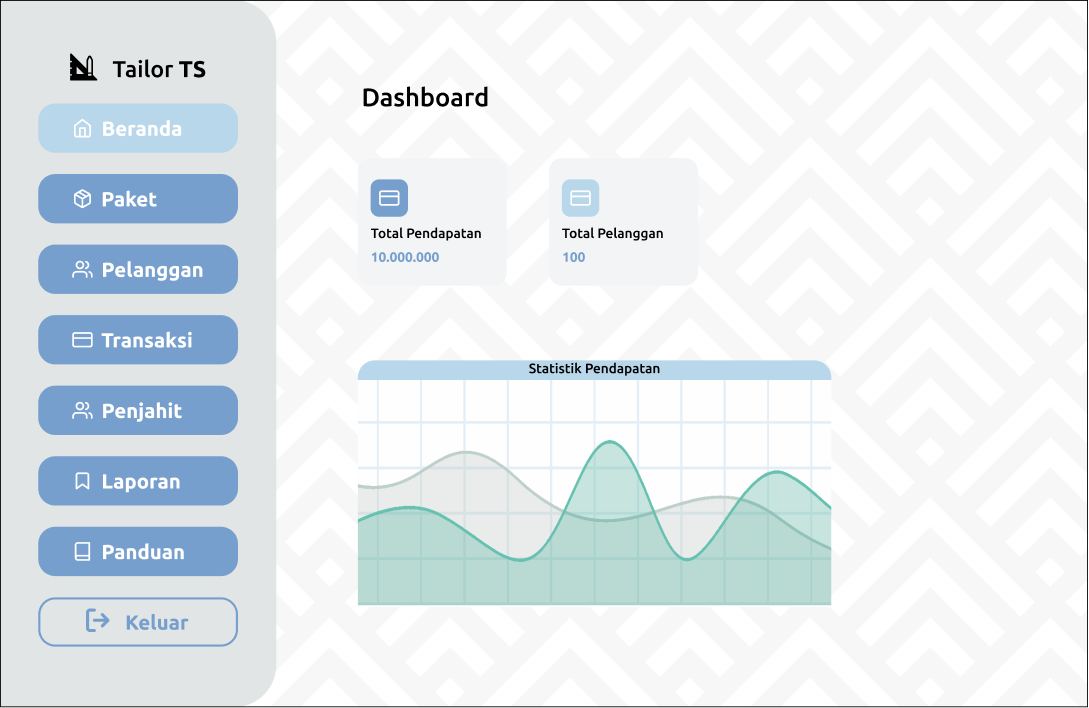
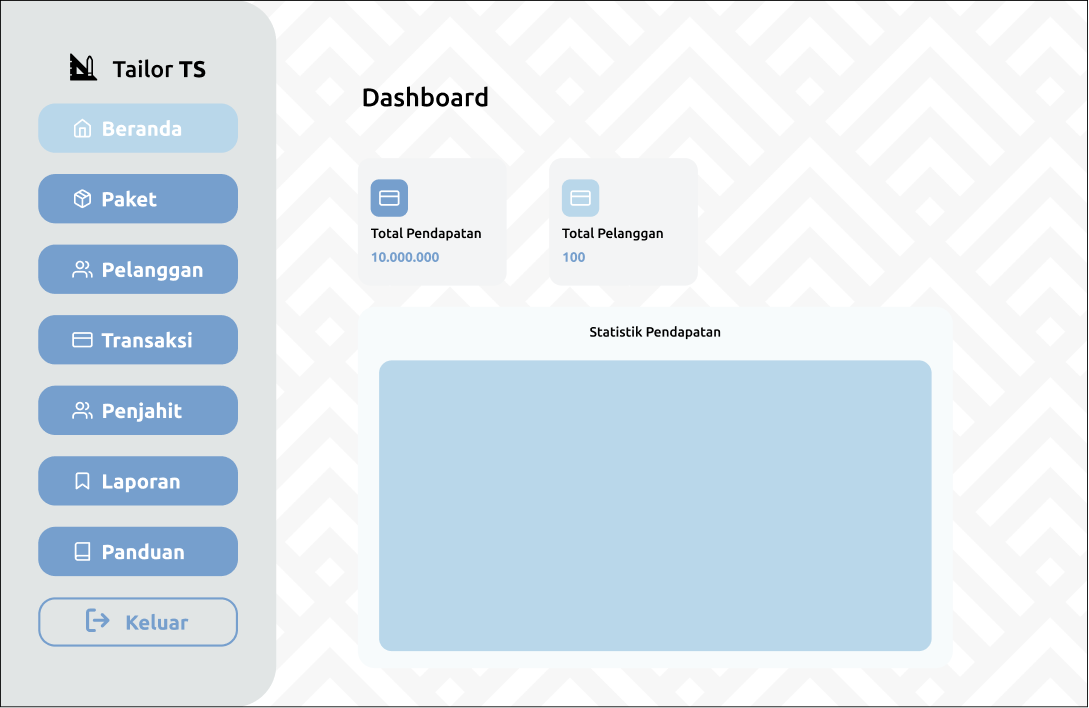
wip: add chart to dashboard

Changed region(s): [[0.3122, 0.4661, 0.8742, 0.9322]]

diff --git a/src/main/java/polije/ppl/tailor/view/admin/DashboardAdminView.java b/src/main/java/polije/ppl/tailor/view/admin/DashboardAdminView.java
@@ -4,7 +4,9 @@
  */
 package polije.ppl.tailor.view.admin;
 
+import java.awt.Color;
 import polije.ppl.tailor.view.util.SidebarAdminView;
+import raven.chart.ModelChart;
 
 /**
  *
@@ -17,6 +19,7 @@ public class DashboardAdminView extends javax.swing.JFrame {
      */
     public DashboardAdminView() {
         initComponents();
+        initChart();
 
         sidebar.add(new SidebarAdminView(this));
         sidebar.setBackground(new java.awt.Color(255, 255, 255, 0));
@@ -31,6 +34,7 @@ public class DashboardAdminView extends javax.swing.JFrame {
     private void initComponents() {
 
         sidebar = new javax.swing.JPanel();
+        chart = new raven.chart.CurveLineChart();
         jLabel1 = new javax.swing.JLabel();
 
         setDefaultCloseOperation(javax.swing.WindowConstants.EXIT_ON_CLOSE);
@@ -42,6 +46,11 @@ public class DashboardAdminView extends javax.swing.JFrame {
         getContentPane().add(sidebar);
         sidebar.setBounds(0, 0, 277, 708);
 
+        chart.setBorder(javax.swing.BorderFactory.createEmptyBorder(10, 10, 10, 10));
+        chart.setForeground(new java.awt.Color(0, 102, 102));
+        getContentPane().add(chart);
+        chart.setBounds(390, 360, 530, 290);
+
         jLabel1.setIcon(new javax.swing.ImageIcon(getClass().getResource("/assets/pages/Dashbord Admin.png"))); // NOI18N
         jLabel1.setAlignmentY(0.0F);
         getContentPane().add(jLabel1);
@@ -50,7 +59,16 @@ public class DashboardAdminView extends javax.swing.JFrame {
         pack();
         setLocationRelativeTo(null);
     }// </editor-fold>//GEN-END:initComponents
-
+    private void initChart() {
+        chart.addLegend("Pendapatan", Color.decode("#8360c3"), Color.decode("#2ebf91"));
+        chart.addData(new ModelChart("Januari", new double[] { 10 }));
+        chart.addData(new ModelChart("Februari", new double[] { 5 }));
+        chart.addData(new ModelChart("Maret", new double[] { 25 }));
+        chart.addData(new ModelChart("April", new double[] { 40 }));
+        chart.addData(new ModelChart("Mei", new double[] { 5 }));
+        
+        chart.start();
+    }
     /**
      * @param args the command line arguments
      */
@@ -87,6 +105,7 @@ public class DashboardAdminView extends javax.swing.JFrame {
     }
 
     // Variables declaration - do not modify//GEN-BEGIN:variables
+    private raven.chart.CurveLineChart chart;
     private javax.swing.JLabel jLabel1;
     private javax.swing.JPanel sidebar;
     // End of variables declaration//GEN-END:variables
